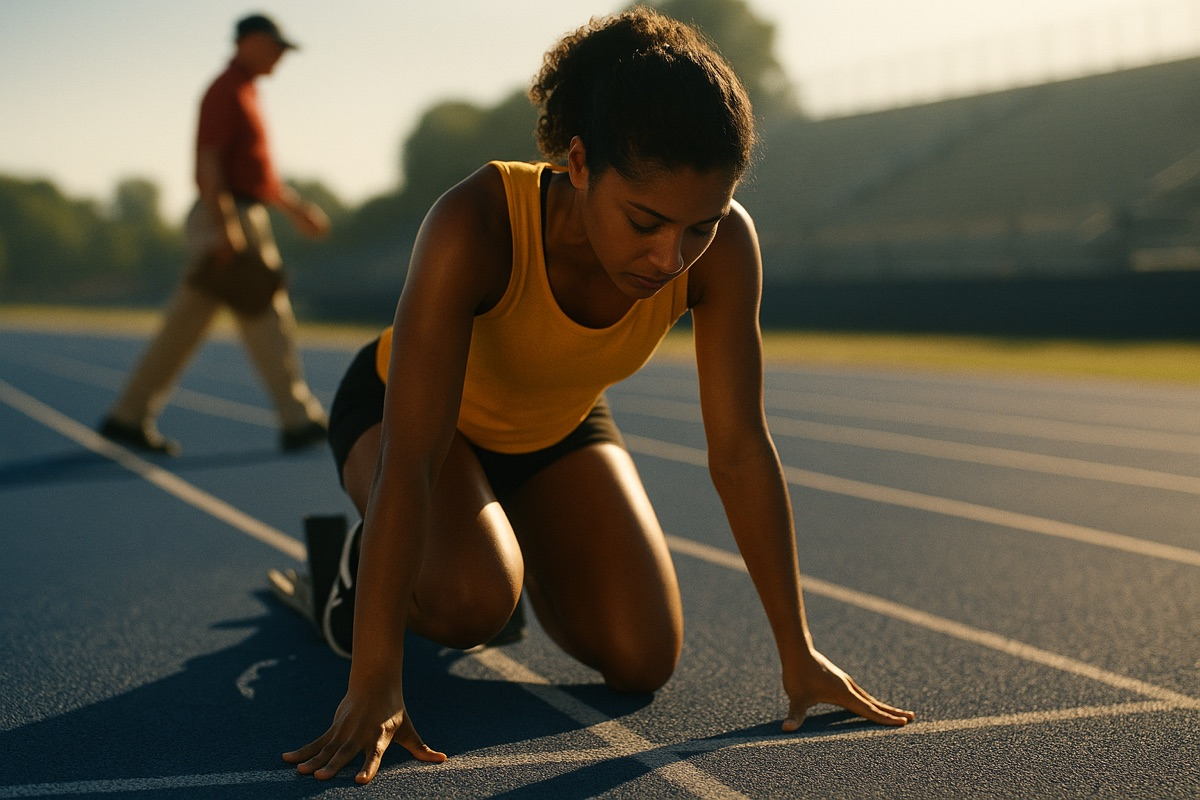
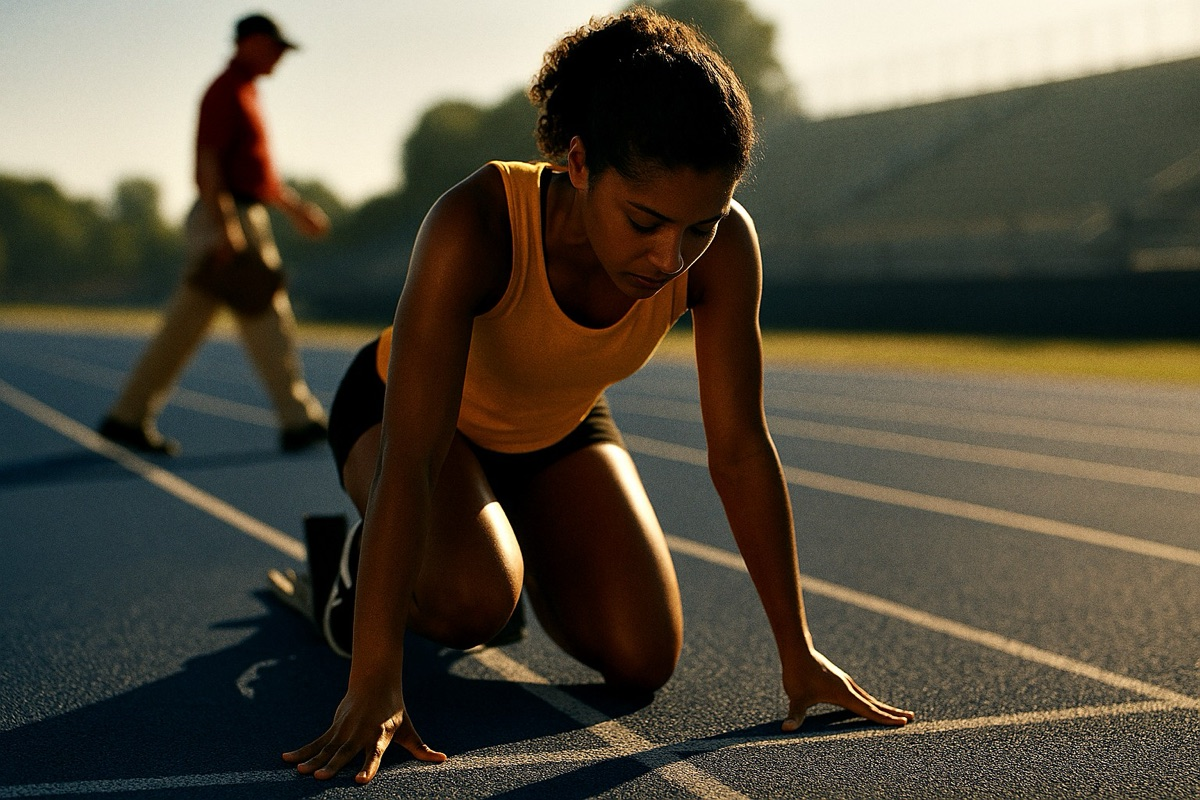
v2 engine frames: entropy, clear air, skin realism, filmize pass

diff --git a/index.html b/index.html
@@ -65,7 +65,7 @@
     <img src="assets/hero-before-the-whistle.jpg" alt="Sprinter in the blocks frame">
     <img src="assets/hero-last-stop.jpg" alt="Night gas station frame">
   </div>
-  <p class="cta-note" style="margin-top:10px">Every image on this page was generated with prompts from the system, exactly as they ship. No retouching.</p>
+  <p class="cta-note" style="margin-top:10px">Every image on this page was generated with prompts from the system, exactly as they ship, then finished with the included filmize pass (grain, true blacks, no glow). Nothing else.</p>
 
   <section>
     <div class="wrap narrow" style="padding:0">
@@ -104,7 +104,7 @@
       <div class="half">
         <div class="tag a">After</div>
         <img src="assets/after-product-shot.jpg" alt="Frame-grab style sneaker action insert">
-        <div class="cap">The packshot replaced by a frame of the product working: wet concrete, low raking sun, razor-thin focus on the outsole, motion blur trailing the heel. Prompt 15, verbatim.</div>
+        <div class="cap">The packshot replaced by a frame of the product working: run-in shoe, wet concrete, low raking sun, spray clipping against the light. Prompt 15, with the entropy module applied.</div>
       </div>
     </div>
   </section>
@@ -116,7 +116,7 @@
       <div><b>The engine</b><span>A 3,300-word system prompt. Paste it into Claude, ChatGPT, or any capable model with your script and get back a complete prompt bank with a locked visual bible per location.</span></div>
       <div><b>The 19-page guide</b><span>Why AI images fail (the nine failure modes) and the cinematography rules that fix each one, including the skin-realism module that kills the waxy AI face.</span></div>
       <div><b>The starter bank</b><span>Twenty finished exemplar prompts across the genres you actually get briefed on: spirits, sports, family, tech, beauty, automotive, food, comedy, and twelve more.</span></div>
-      <div><b>The Review Codes</b><span>Grade any render in seconds (GRAY, FLAT, STAGED, AI-PEOPLE...) and correct only the failing dimension instead of re-rolling from scratch.</span></div>
+      <div><b>The Review Codes</b><span>Grade any render in seconds (GRAY, FLAT, STAGED, AI-PEOPLE, RENDER-CLEAN...) and correct only the failing dimension instead of re-rolling from scratch.</span></div>
     </div>
   </section>
 
